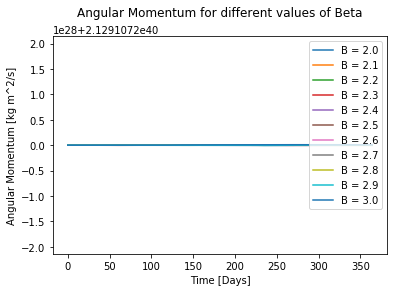
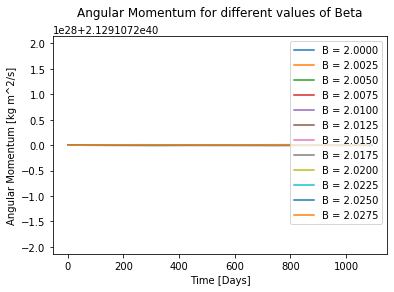
Fixed e), likely final
Fixed e) figures, removed math.atan2 and used np.arctan2 instead.

diff --git a/Project_3/code/main.py b/Project_3/code/main.py
@@ -1,7 +1,6 @@
 # -*- coding: utf-8 -*-
 import numpy as np
 import matplotlib.pyplot as plt
-from math import atan2
 from noclass import proj_3a
 import time
 """
@@ -66,7 +65,7 @@ class CelestialBody:
         ry = py-sy
         r = np.linalg.norm((rx,ry)) #find radius from planet and it's primary
         F = G*self.mass*primary.mass/(r**beta) #force between planet and it's primary
-        theta = atan2(ry,rx)
+        theta = np.arctan2(ry,rx)
         Fx = F*np.cos(theta); Fy = F*np.sin(theta)
         return Fx, Fy
         
@@ -203,7 +202,7 @@ class CelestialBody:
             ry = py-sy
             r = np.linalg.norm((rx,ry)) #find radius from planet and it's primary
             F = G*self.mass*primary.mass/(r**beta) #force between planet and it's primary
-            theta = atan2(ry,rx)
+            theta = np.arctan2(ry,rx)
             Fx = F*np.cos(theta); Fy = F*np.sin(theta)
             TFx += Fx; TFy += Fy
         return TFx, TFy
@@ -250,7 +249,7 @@ class CelestialBody:
         cc = 3e8**2
         r = np.linalg.norm((rx,ry)) #find radius from planet and it's primary
         F = (G*self.mass*primary.mass/(r**beta))*(1+((3*l**2)/(r**2*cc))) #force between planet and it's primary
-        theta = atan2(ry,rx)
+        theta = np.arctan2(ry,rx)
         Fx = F*np.cos(theta); Fy = F*np.sin(theta)
         return Fx, Fy
     """
@@ -429,7 +428,7 @@ Call the function from the console
     
 def proj_3e():
     AU = 149.6e9
-    betas = np.linspace(2,3,11)
+    betas = np.linspace(2,2.0275,12)
     years = 25
     bOrbits = np.zeros((len(betas),years*365,2))
     sun = CelestialBody('Sun', np.array((0,0)), np.array((0,0)), 2e30)
@@ -440,11 +439,11 @@ def proj_3e():
         bOrbits[j] = earth.p
         j += 1
     bOrbits = bOrbits/AU
-    plt.figure()
+    plt.figure(figsize=(7,7))
     for i in range(len(betas)):
         b = betas[i]
-        plt.plot(bOrbits[i,:,0]/AU, bOrbits[i,:,1]/AU, label='B = %.1f' %(b))
-    plt.legend()
+        plt.plot(bOrbits[i,:,0]/AU, bOrbits[i,:,1]/AU, label='B = %.4f' %(b))
+    plt.legend(loc='upper right')
     plt.title('Earths orbit given different values of Beta over 25 years', pad=20)
     plt.xlabel('x position [AU]')
     plt.ylabel('y position [AU]')
@@ -479,17 +478,17 @@ def proj_3e():
     plt.ylabel('Angular Momentum [kg m^2/s]')
     plt.title('Angular Momentum for a complete elliptical orbit', pad=20)
     plt.show()
-    plt.figure()
+    plt.figure(figsize=(7,7))
     
     j = 0
-    energies = np.zeros((len(betas),365))
+    energies = np.zeros((len(betas),365*3))
     for i in betas:
         earth = CelestialBody('Earth', np.array((1*AU,0)), np.array((0,23.72e3)), 6e24) #re-initializing for each loop
-        U, K, energies[j] = earth.Energies(sun,365,24*3600,i)
+        U, K, energies[j] = earth.Energies(sun,3*365,24*3600,i)
         j += 1
     for i in range(len(betas)):
         b = betas[i]
-        plt.plot(range(365), energies[i], label='B = %.1f' %(b))
+        plt.plot(range(3*365), energies[i], label='B = %.4f' %(b))
     plt.legend()
     plt.xlabel('Time [Days]')
     plt.ylabel('Energy [J]')
@@ -497,14 +496,14 @@ def proj_3e():
     plt.show()
     j = 0
     plt.figure()
-    AngMom = np.zeros((len(betas),365))
+    AngMom = np.zeros((len(betas),365*3))
     for i in betas:
         earth = CelestialBody('Earth', np.array((1*AU,0)), np.array((0,23.72e3)), 6e24) #re-initializing for each loop
-        AngMom[j] = earth.AngularMom(sun,365,24*3600,i)
+        AngMom[j] = earth.AngularMom(sun,3*365,24*3600,i)
         j += 1
     for i in range(len(betas)):
         b = betas[i]
-        plt.plot(range(365), AngMom[i], label='B = %.1f' %(b))
+        plt.plot(range(3*365), AngMom[i], label='B = %.4f' %(b))
     plt.legend()
     plt.xlabel('Time [Days]')
     plt.ylabel('Angular Momentum [kg m^2/s]')

diff --git a/Project_3/code/noclass.py b/Project_3/code/noclass.py
@@ -1,7 +1,6 @@
 # -*- coding: utf-8 -*-
 import numpy as np
 import matplotlib.pyplot as plt
-from math import atan2
 """
 Solves task 3a
 Generates a 2d-plot of the earth orbiting the sun with initial conditions
@@ -20,14 +19,15 @@ def proj_3a():
     G = 6.67e-11
     N = 365
     dt = 24*3600
+    beta = 2
     x = np.zeros((N,2))
     v = np.zeros((N,2))
     x[0,0] = r0
     v[0,1] = v0
     for i in range(N-1):
         r = np.sqrt(x[i,0]**2+x[i,1]**2)
-        FG = G*M_sun*M_earth/(r**2)
-        theta = atan2(x[i,1],x[i,0])
+        FG = G*M_sun*M_earth/(r**beta)
+        theta = np.arctan2(x[i,1],x[i,0])
         fx = -FG*np.cos(theta)
         fy = -FG*np.sin(theta)
         ax = fx/M_earth; ay = fy/M_earth
@@ -40,8 +40,8 @@ def proj_3a():
     v2[0,1] = v0; x2[0,0] = r0
     dt2 = 0.5*dt*dt #save FLOPs
     r = np.linalg.norm(x2[0])
-    FG = G*M_sun*M_earth/(r**2)
-    theta = atan2(x2[0,1],x2[0,0])
+    FG = G*M_sun*M_earth/(r**beta)
+    theta = np.arctan2(x2[0,1],x2[0,0])
     fx = -FG*np.cos(theta)
     fy = -FG*np.sin(theta)
     ax, ay = fx/M_earth, fy/M_earth
@@ -49,8 +49,8 @@ def proj_3a():
     for i in range(N-1):
         x2[i+1] = x2[i] + v2[i]*dt+a*dt2
         r = np.linalg.norm(x2[i+1])
-        FG = G*M_sun*M_earth/(r**2)
-        theta = atan2(x2[i+1,1],x2[i+1,0])
+        FG = G*M_sun*M_earth/(r**beta)
+        theta = np.arctan2(x2[i+1,1],x2[i+1,0])
         fx = -FG*np.cos(theta)
         fy = -FG*np.sin(theta)
         ax = fx/M_earth; ay = fy/M_earth
